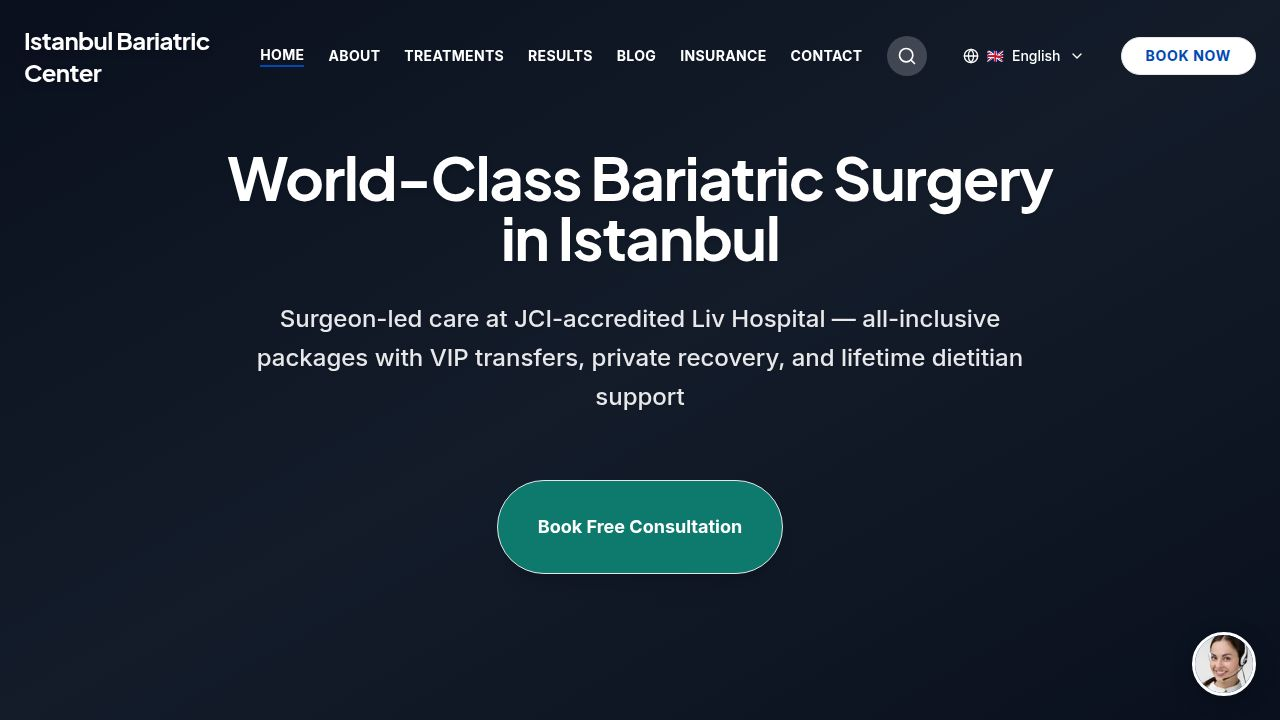
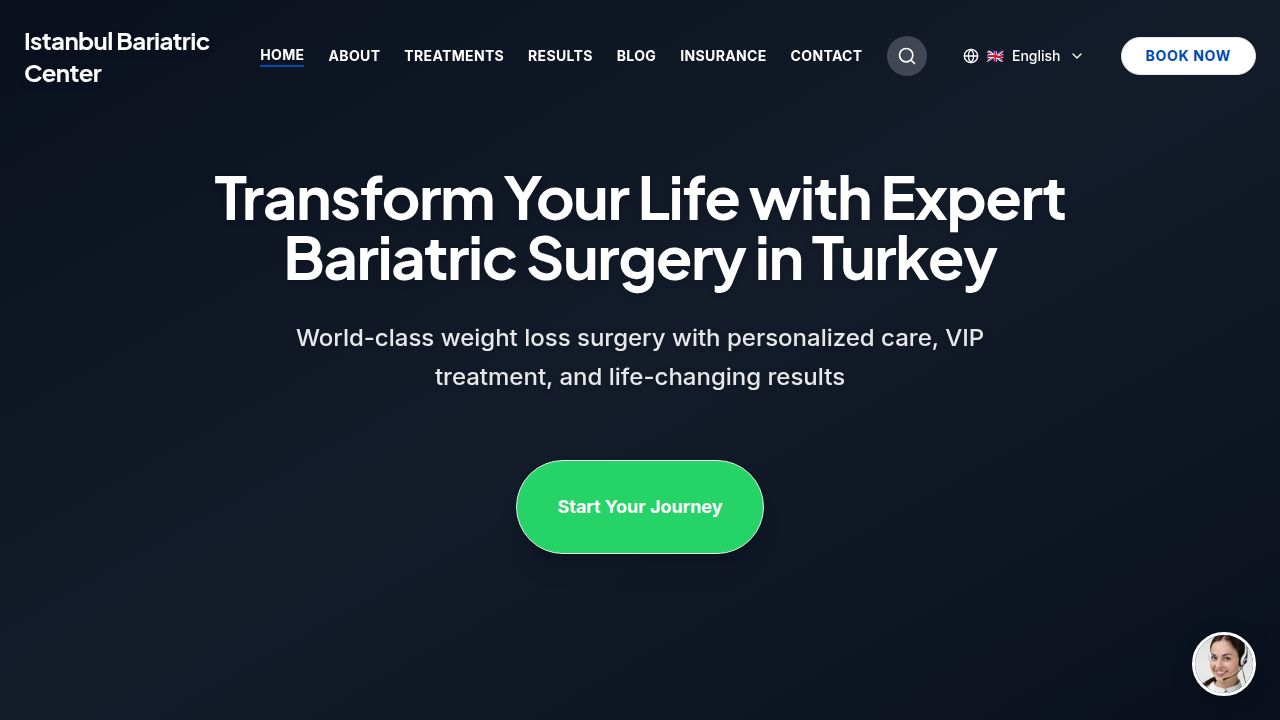
Restored to 'cd6ae91966fcee02546cca8db32506be07a064d2'
Replit-Restored-To: cd6ae91966fcee02546cca8db32506be07a064d2

Changed region(s): [[0.1562, 0.2139, 0.8438, 0.5806], [0.375, 0.6417, 0.625, 0.7944]]

diff --git a/client/src/components/vip-package.tsx b/client/src/components/vip-package.tsx
@@ -25,7 +25,7 @@ export function VIPPackage() {
                 <Heart className="w-8 h-8 text-primary" />
               </div>
               <div>
-                <h3 className="text-xl font-bold text-[#2d3e50] mb-2 uppercase tracking-wide">{t('vipPackage.lovelyExperience')}</h3>
+                <h4 className="text-xl font-bold text-[#2d3e50] mb-2 uppercase tracking-wide">{t('vipPackage.lovelyExperience')}</h4>
                 <p className="text-slate-500 text-lg">{t('vipPackage.fromStartToEnd')}</p>
               </div>
             </div>
@@ -35,7 +35,7 @@ export function VIPPackage() {
                 <Building className="w-8 h-8 text-primary" />
               </div>
               <div>
-                <h3 className="text-xl font-bold text-[#2d3e50] mb-2 uppercase tracking-wide">{t('vipPackage.fullyFormedHospital')}</h3>
+                <h4 className="text-xl font-bold text-[#2d3e50] mb-2 uppercase tracking-wide">{t('vipPackage.fullyFormedHospital')}</h4>
                 <p className="text-slate-500 text-lg">{t('vipPackage.jciAccredited')}</p>
               </div>
             </div>
@@ -45,7 +45,7 @@ export function VIPPackage() {
                 <Calendar className="w-8 h-8 text-primary" />
               </div>
               <div>
-                <h3 className="text-xl font-bold text-[#2d3e50] mb-2 uppercase tracking-wide">{t('vipPackage.accommodation')}</h3>
+                <h4 className="text-xl font-bold text-[#2d3e50] mb-2 uppercase tracking-wide">{t('vipPackage.accommodation')}</h4>
                 <p className="text-slate-500 text-lg">{t('vipPackage.luxuryHotels')}</p>
               </div>
             </div>
@@ -58,9 +58,8 @@ export function VIPPackage() {
                  alt="Istanbul Bariatric Center - Liv Hospital at night" 
                  className="w-full h-auto object-cover block"
                  loading="lazy"
-                 width="651"
-                 height="410"
-                 decoding="async"
+                 width="400"
+                 height="300"
                />
                <a
                  href="https://vr.livhospital.com/videoroom.html#!/Genel-Goruntuler/0a3/?dil=Tr&ath=-57&atv=-6&fov=80"
@@ -81,7 +80,7 @@ export function VIPPackage() {
                 <Plane className="w-8 h-8 text-primary" />
               </div>
               <div>
-                <h3 className="text-xl font-bold text-[#2d3e50] mb-2 uppercase tracking-wide">{t('vipPackage.freeAirportPickup')}</h3>
+                <h4 className="text-xl font-bold text-[#2d3e50] mb-2 uppercase tracking-wide">{t('vipPackage.freeAirportPickup')}</h4>
                 <p className="text-slate-500 text-lg">{t('vipPackage.forYourConvenience')}</p>
               </div>
             </div>
@@ -91,7 +90,7 @@ export function VIPPackage() {
                 <Tag className="w-8 h-8 text-primary" />
               </div>
               <div>
-                <h3 className="text-xl font-bold text-[#2d3e50] mb-2 uppercase tracking-wide">{t('vipPackage.startsFrom')}</h3>
+                <h4 className="text-xl font-bold text-[#2d3e50] mb-2 uppercase tracking-wide">{t('vipPackage.startsFrom')}</h4>
                 <p className="text-slate-500 text-lg">{t('vipPackage.bestPrices')}</p>
               </div>
             </div>
@@ -101,7 +100,7 @@ export function VIPPackage() {
                 <Users className="w-8 h-8 text-primary" />
               </div>
               <div>
-                <h3 className="text-xl font-bold text-[#2d3e50] mb-2 uppercase tracking-wide">{t('vipPackage.helpfulStaff')}</h3>
+                <h4 className="text-xl font-bold text-[#2d3e50] mb-2 uppercase tracking-wide">{t('vipPackage.helpfulStaff')}</h4>
                 <p className="text-slate-500 text-lg">{t('vipPackage.noCost')}</p>
               </div>
             </div>
@@ -111,13 +110,13 @@ export function VIPPackage() {
         <div className="text-center mt-16 space-y-6">
           <Button 
             size="lg" 
-            className="bg-[#0e7a6e] hover:bg-[#0a6b60] text-white font-bold text-lg px-12 py-8 rounded-full shadow-xl uppercase tracking-wider"
+            className="bg-[#25D366] hover:bg-[#128C7E] text-white font-bold text-lg px-12 py-8 rounded-full shadow-xl uppercase tracking-wider"
             onClick={() => window.open('https://wa.me/905324131143', '_blank')}
             aria-label="Start your VIP package inquiry via WhatsApp"
           >
             {t('vipPackage.letsTryIt')}
           </Button>
-          <p className="text-slate-500 font-medium">{t('vipPackage.getStarted')}</p>
+          <p className="text-slate-400 font-medium">{t('vipPackage.getStarted')}</p>
         </div>
       </div>
     </section>

diff --git a/client/src/components/footer.tsx b/client/src/components/footer.tsx
@@ -12,7 +12,7 @@ export function Footer() {
         <div className="grid md:grid-cols-2 lg:grid-cols-4 gap-12 mb-16">
           <div className="space-y-6">
             <h2 className="text-2xl font-heading font-bold">Istanbul Bariatric Center</h2>
-            <p className="text-slate-300 leading-relaxed">
+            <p className="text-slate-400 leading-relaxed">
               Leading the way in bariatric surgery with world-class facilities and expert care. Your health is our priority.
             </p>
             <div className="flex gap-4" role="list" aria-label="Social media links">
@@ -30,7 +30,7 @@ export function Footer() {
 
           <nav aria-label="Treatment links">
             <h3 className="font-bold text-lg mb-6">Treatments</h3>
-            <ul className="space-y-4 text-slate-300">
+            <ul className="space-y-4 text-slate-400">
               <li><Link href="/sleeve-gastrectomy" className="hover:text-primary transition-colors">Gastric Sleeve</Link></li>
               <li><Link href="/mini-gastric-bypass" className="hover:text-primary transition-colors">Gastric Bypass</Link></li>
               <li><Link href="/gastric-balloon" className="hover:text-primary transition-colors">Gastric Balloon</Link></li>
@@ -43,7 +43,7 @@ export function Footer() {
 
           <nav aria-label="Quick links">
             <h3 className="font-bold text-lg mb-6">Quick Links</h3>
-            <ul className="space-y-4 text-slate-300">
+            <ul className="space-y-4 text-slate-400">
               <li><Link href="/about" className="hover:text-primary transition-colors">About Us</Link></li>
               <li><Link href="/treatments" className="hover:text-primary transition-colors">Treatments</Link></li>
               <li><Link href="/results" className="hover:text-primary transition-colors">Results</Link></li>
@@ -54,7 +54,7 @@ export function Footer() {
 
           <div>
             <h3 className="font-bold text-lg mb-6">Contact Us</h3>
-            <ul className="space-y-4 text-slate-300">
+            <ul className="space-y-4 text-slate-400">
               <li className="flex items-start gap-3">
                 <MapPin className="w-5 h-5 text-primary shrink-0 mt-1" />
                 <span>Istanbul, Turkey</span>
@@ -69,14 +69,14 @@ export function Footer() {
               </li>
             </ul>
             <a href="https://wa.me/905324131143" target="_blank" rel="noopener noreferrer" aria-label="Contact us on WhatsApp">
-              <Button className="w-full mt-6 bg-green-700 hover:bg-green-800" aria-label="WhatsApp Us - Opens in new window">
+              <Button className="w-full mt-6 bg-green-600 hover:bg-green-700" aria-label="WhatsApp Us - Opens in new window">
                 WhatsApp Us
               </Button>
             </a>
           </div>
         </div>
 
-        <div className="border-t border-slate-800 pt-8 text-center text-slate-400 text-sm">
+        <div className="border-t border-slate-800 pt-8 text-center text-slate-500 text-sm">
           <p>{t('copyright')}</p>
         </div>
       </div>

diff --git a/server/index.ts b/server/index.ts
@@ -6,6 +6,7 @@ import { registerAdminRoutes } from "./admin-routes";
 import { serveStatic } from "./static";
 import { createServer } from "http";
 
+// Prevent unhandled rejections from crashing the server
 process.on('unhandledRejection', (reason, promise) => {
   console.error('Unhandled Rejection at:', promise, 'reason:', reason);
 });
@@ -13,6 +14,7 @@ process.on('unhandledRejection', (reason, promise) => {
 const app = express();
 const httpServer = createServer(app);
 
+// Enable gzip/brotli compression for all responses
 app.use(compression({
   level: 6,
   threshold: 1024,
@@ -95,29 +97,6 @@ app.use((req, res, next) => {
 });
 
 (async () => {
-  const port = parseInt(process.env.PORT || "5000", 10);
-
-  const startupHandler = (_req: Request, res: Response) => {
-    res.status(200).set({ "Content-Type": "text/html" }).send(
-      "<!DOCTYPE html><html><head><meta charset='utf-8'><title>Istanbul Bariatric Center</title><meta http-equiv='refresh' content='2'></head><body><p>Loading...</p></body></html>"
-    );
-  };
-  app.use(startupHandler);
-
-  await new Promise<void>((resolve) => {
-    httpServer.listen(
-      {
-        port,
-        host: "0.0.0.0",
-        reusePort: true,
-      },
-      () => {
-        log(`serving on port ${port}`);
-        resolve();
-      },
-    );
-  });
-
   registerMayaChatRoutes(app);
   registerAdminRoutes(app);
   await registerRoutes(httpServer, app);
@@ -130,6 +109,9 @@ app.use((req, res, next) => {
     throw err;
   });
 
+  // importantly only setup vite in development and after
+  // setting up all the other routes so the catch-all route
+  // doesn't interfere with the other routes
   if (process.env.NODE_ENV === "production") {
     serveStatic(app);
   } else {
@@ -137,13 +119,19 @@ app.use((req, res, next) => {
     await setupVite(httpServer, app);
   }
 
-  // Remove the startup handler now that all routes are registered
-  const idx = app._router.stack.findIndex(
-    (layer: any) => layer.handle === startupHandler
+  // ALWAYS serve the app on the port specified in the environment variable PORT
+  // Other ports are firewalled. Default to 5000 if not specified.
+  // this serves both the API and the client.
+  // It is the only port that is not firewalled.
+  const port = parseInt(process.env.PORT || "5000", 10);
+  httpServer.listen(
+    {
+      port,
+      host: "0.0.0.0",
+      reusePort: true,
+    },
+    () => {
+      log(`serving on port ${port}`);
+    },
   );
-  if (idx !== -1) {
-    app._router.stack.splice(idx, 1);
-  }
-
-  log("app fully initialized");
 })();

diff --git a/vite.config.ts b/vite.config.ts
@@ -41,28 +41,12 @@ export default defineConfig({
     emptyOutDir: true,
     rollupOptions: {
       output: {
-        manualChunks(id) {
-          if (id.includes('node_modules/react-dom') || id.includes('node_modules/react/')) {
-            return 'vendor-react';
-          }
-          if (id.includes('node_modules/@radix-ui')) {
-            return 'vendor-ui';
-          }
-          if (id.includes('node_modules/react-hook-form') || id.includes('node_modules/@hookform') || id.includes('node_modules/zod')) {
-            return 'vendor-forms';
-          }
-          if (id.includes('node_modules/@tanstack')) {
-            return 'vendor-query';
-          }
-          if (id.includes('node_modules/i18next') || id.includes('node_modules/react-i18next')) {
-            return 'i18n';
-          }
-          if (id.includes('node_modules/lucide-react')) {
-            return 'vendor-icons';
-          }
-          if (id.includes('node_modules/embla-carousel') || id.includes('node_modules/sonner') || id.includes('node_modules/wouter')) {
-            return 'vendor-misc';
-          }
+        manualChunks: {
+          'vendor-react': ['react', 'react-dom'],
+          'vendor-ui': ['@radix-ui/react-accordion', '@radix-ui/react-dialog', '@radix-ui/react-tooltip', '@radix-ui/react-select', '@radix-ui/react-tabs'],
+          'vendor-forms': ['react-hook-form', '@hookform/resolvers', 'zod'],
+          'vendor-query': ['@tanstack/react-query'],
+          'i18n': ['i18next', 'react-i18next'],
         },
       },
     },

diff --git a/client/src/components/bmi-calculator.tsx b/client/src/components/bmi-calculator.tsx
@@ -224,7 +224,7 @@ export function BMICalculator() {
 
             {!result && (
               <div className="mt-6 p-6 bg-gray-50 rounded-xl">
-                <h3 className="font-semibold text-gray-900 mb-2">{t('home:bmi.enterDetails')}</h3>
+                <h4 className="font-semibold text-gray-900 mb-2">{t('home:bmi.enterDetails')}</h4>
                 <p className="text-sm text-gray-600">
                   {t('home:bmi.inputMessage')}
                 </p>
@@ -233,7 +233,7 @@ export function BMICalculator() {
           </div>
 
           <div className="bg-white rounded-2xl shadow-lg p-8">
-            <h3 className="font-semibold text-gray-900 mb-6">{t('home:bmi.categories')}</h3>
+            <h4 className="font-semibold text-gray-900 mb-6">{t('home:bmi.categories')}</h4>
             <div className="space-y-3">
               {bmiCategories.map((cat, index) => (
                 <div
@@ -250,7 +250,7 @@ export function BMICalculator() {
             </div>
 
             <div className="mt-8 p-4 bg-blue-50 rounded-xl">
-              <h4 className="font-medium text-gray-900 mb-2">{t('home:bmi.whyBmiMatters')}</h4>
+              <h5 className="font-medium text-gray-900 mb-2">{t('home:bmi.whyBmiMatters')}</h5>
               <p className="text-sm text-gray-600">
                 {t('home:bmi.bmiExplanation')}
               </p>

diff --git a/client/src/components/testimonials.tsx b/client/src/components/testimonials.tsx
@@ -198,7 +198,7 @@ export function Testimonials() {
                         <Star key={i} className="w-4 h-4 fill-yellow-400 text-yellow-400" />
                       ))}
                     </div>
-                    <span className="text-xs text-slate-500">{item.date}</span>
+                    <span className="text-xs text-slate-400">{item.date}</span>
                   </div>
                   <Quote className="w-8 h-8 text-primary/20 mb-4" />
                   <p className="text-slate-600 mb-6 leading-relaxed italic flex-grow">
@@ -214,7 +214,7 @@ export function Testimonials() {
                       <p className="font-bold text-slate-900 flex items-center gap-2">
                         {item.name} <span className="text-lg">{item.flag}</span>
                       </p>
-                      <p className="text-xs text-slate-500 flex items-center gap-1">
+                      <p className="text-xs text-slate-400 flex items-center gap-1">
                         <BadgeCheck className="w-3 h-3 text-green-500" />
                         Verified Patient
                       </p>

diff --git a/client/src/components/awards.tsx b/client/src/components/awards.tsx
@@ -23,9 +23,9 @@ export function Awards() {
                   <div className="absolute inset-0 flex flex-col items-center justify-center p-2 border-4 border-amber-500" style={{
                     clipPath: 'polygon(0 0, 100% 0, 100% 85%, 50% 100%, 0 85%)'
                   }}>
-                    <span className="text-amber-700 text-[10px] md:text-xs font-bold tracking-widest">SERVICE</span>
-                    <span className="text-amber-700 text-lg md:text-xl font-extrabold">AWARD</span>
-                    <span className="text-amber-700 text-xl md:text-2xl font-extrabold">{year}</span>
+                    <span className="text-amber-600 text-[10px] md:text-xs font-bold tracking-widest">SERVICE</span>
+                    <span className="text-amber-600 text-lg md:text-xl font-extrabold">AWARD</span>
+                    <span className="text-amber-600 text-xl md:text-2xl font-extrabold">{year}</span>
                   </div>
                 </div>
               </div>

diff --git a/client/src/components/navbar.tsx b/client/src/components/navbar.tsx
@@ -15,17 +15,10 @@ export function Navbar() {
   const { t } = useTranslation('nav');
 
   useEffect(() => {
-    let ticking = false;
     const handleScroll = () => {
-      if (!ticking) {
-        ticking = true;
-        requestAnimationFrame(() => {
-          setIsScrolled(window.scrollY > 20);
-          ticking = false;
-        });
-      }
+      setIsScrolled(window.scrollY > 20);
     };
-    window.addEventListener("scroll", handleScroll, { passive: true });
+    window.addEventListener("scroll", handleScroll);
     return () => window.removeEventListener("scroll", handleScroll);
   }, []);
 

diff --git a/client/src/components/hero.tsx b/client/src/components/hero.tsx
@@ -68,7 +68,7 @@ export function Hero() {
         <div className="pt-8">
           <Button 
             size="lg" 
-            className="bg-[#0e7a6e] hover:bg-[#0a6b60] text-white font-bold text-lg px-10 py-8 rounded-full shadow-xl transition-transform hover:scale-105"
+            className="bg-[#25D366] hover:bg-[#128C7E] text-white font-bold text-lg px-10 py-8 rounded-full shadow-xl transition-transform hover:scale-105"
             onClick={() => window.open('https://wa.me/905324131143', '_blank')}
             aria-label="Get a free consultation via WhatsApp"
           >
